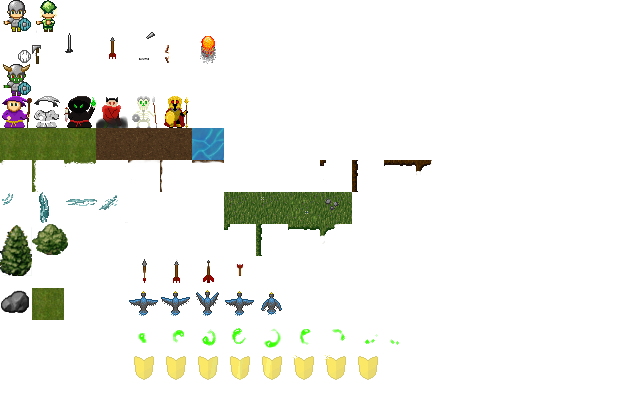
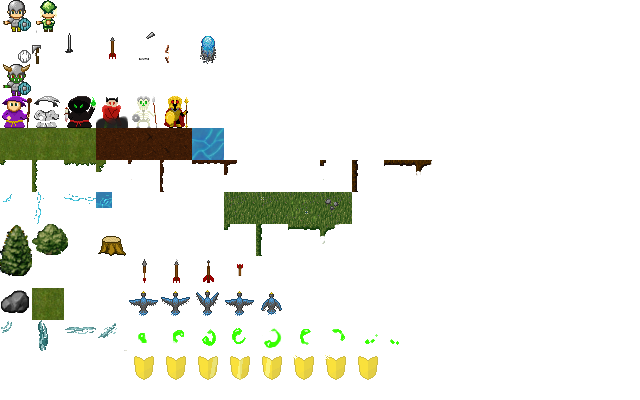
little bugs fixes, integration of new blue fireball and tree stump, outlines added to edges, ripples review, earth color changed, and reviewed tile edge sprite finding

diff --git a/IronTactics/src/fr/frozen/iron/common/Tile.java b/IronTactics/src/fr/frozen/iron/common/Tile.java
@@ -16,9 +16,12 @@ public class Tile {
 	public static final int TYPE_EARTH = 1;
 	public static final int TYPE_WATER = 2;
 	
-	public static final int NB_DISPLAY_LEVELS = 3;
-	public static final int DISPLAY_TOP = 2;
-	public static final int DISPLAY_MIDDLE = 1;
+	public static final int NB_DISPLAY_LEVELS = 6;
+	public static final int DISPLAY_TOP_TOP = 5;
+	public static final int DISPLAY_TOP = 4;
+	public static final int DISPLAY_MIDDLE_TOP = 3;
+	public static final int DISPLAY_MIDDLE = 2;
+	public static final int DISPLAY_MIDDLE_BOTTOM = 1;
 	public static final int DISPLAY_BOTTOM = 0;
 	
 	public static final int OBJECT_NOTHING = 0;
@@ -254,8 +257,13 @@ public class Tile {
 		
 		for (int i = 0; i < 8; i++) {
 			if (bools[i]) {
-				if (i % 2 == 0  && (bools[(8 + i - 1) % 8] || bools[i + 1 % 2])) {
-					continue;
+				
+				if (i % 2 == 0  && bools[(8 + i - 1) % 8] ) {
+					if (type(i) == type((8 + i - 1) % 8))
+						continue;
+				} else if (i % 2 == 0  && bools[i + 1 % 8]) {
+					if (type(i) == type(i + 1 % 8))
+						continue;
 				}
 				
 				
@@ -276,13 +284,12 @@ public class Tile {
 					overlaySprites[DISPLAY_TOP].add(spriteToAdd);
 				} else if (type(i) == TYPE_EARTH) {
 					overlaySprites[DISPLAY_MIDDLE].add(spriteToAdd);	
-				} else {
-					System.out.println("FUUUUUUU");
 				}
 				
-				if (i % 2 == 1 && bools[(8 + i - 2) % 8] && type(i) == type((8 + i - 2) % 8)) {
+				if (i % 2 == 1 && bools[(8 + i - 2) % 8]){// && type(i) == type((8 + i - 2) % 8)) {
 					boolean mirX = false;
 					boolean mirY = false;
+					int typeTmp = Math.max(type(i), type((8 + i - 2) % 8));
 					if (i == 3 || i == 5) {
 						mirX = true;
 					}
@@ -294,17 +301,17 @@ public class Tile {
 						spriteToAdd = ISpriteManager.getInstance().getSprite("water_rincle_corner");
 						spriteToAdd.setMirrorX(mirX);
 						spriteToAdd.setMirrorY(mirY);
-						overlaySprites[DISPLAY_BOTTOM].add(spriteToAdd);
+						overlaySprites[DISPLAY_MIDDLE_BOTTOM].add(spriteToAdd);
 					}
 					
-					spriteToAdd = ISpriteManager.getInstance().getSprite(type+"_overlay_corner");
+					spriteToAdd = ISpriteManager.getInstance().getSprite(tile_names[typeTmp]+"_overlay_corner");
 					spriteToAdd.setMirrorX(mirX);
 					spriteToAdd.setMirrorY(mirY);
 					
-					if (type(i) == TYPE_GRASS) {
-						overlaySprites[DISPLAY_TOP].add(spriteToAdd);
-					} else if (type(i) == TYPE_EARTH) {
-						overlaySprites[DISPLAY_MIDDLE].add(spriteToAdd);	
+					if (typeTmp == TYPE_GRASS) {
+						overlaySprites[DISPLAY_TOP_TOP].add(spriteToAdd);
+					} else if (typeTmp == TYPE_EARTH) {
+						overlaySprites[DISPLAY_MIDDLE_TOP].add(spriteToAdd);	
 					}
 				}
 			}

diff --git a/IronTactics/src/fr/frozen/iron/serverSessions/GameSession.java b/IronTactics/src/fr/frozen/iron/serverSessions/GameSession.java
@@ -86,7 +86,7 @@ public class GameSession extends BaseGameController implements GameContext {
 	}
 	
 	public void startGame() {
-		turnIndex = (int)System.currentTimeMillis() % 2;
+		turnIndex = (int)(System.currentTimeMillis() % 2);
 		Client player = clients.get(turnIndex);
 		
 		setTurn(player.getId());

diff --git a/IronTactics/src/fr/frozen/iron/common/entities/IronUnit.java b/IronTactics/src/fr/frozen/iron/common/entities/IronUnit.java
@@ -255,6 +255,7 @@ public class IronUnit extends GameObject implements Mover {
 			animation = _spriteManager.getAnimationSequence(spriteName);
 			if (animation != null) {
 				animation.start();
+				setSprite(animation.getCurrentSprite());
 			}
 		}
 		
